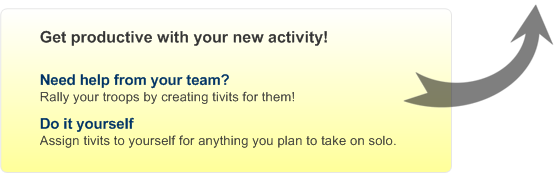
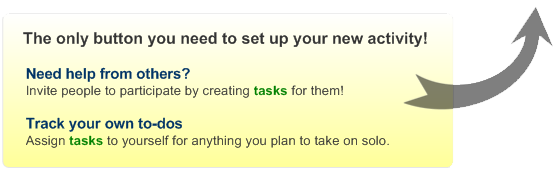
5-3-12 yaniv batch 2 s 1

diff --git a/public/javascripts/base-jq.js b/public/javascripts/base-jq.js
@@ -245,7 +245,7 @@ jQuery(document).ready(function($){
 	    			break;
 	    		case 're-assign':
 	    			console.log('[Yaniv] re-assign tivit selected.');
-	    			var confirmDialogTitle = 'Reassign tivit to someone else';
+	    			var confirmDialogTitle = 'Reassign task to someone else';
 	    			var actionPost = 'action="/reassign?id=' + tivitID + '&method=put" accept-charset="UTF-8">';
 					who = '<p><label for="who">Who:</label><input type="text" name="assign_to" id="assign_to" placeholder="- enter one email address -" class="required email" /></p>';    
 	    			break;
@@ -334,11 +334,20 @@ jQuery(document).ready(function($){
 						
 					// Find the new status we need to change the checkbox to, it's hidden in the HTML of the confirmation popup.
 					var statusobject = jQuery(form).parents('.popup'); 
-						
-					var newState = 'record ' + statusobject.find("input").attr("newstate");
+					
+					var newStateVal = statusobject.find("input").attr("newstate");
+					if (newStateVal == "complete")	
+					{
+						var newState = 'record ' + statusobject.find("input").attr("newstate") + ' tivit-name-line-through';
+					}
+					else
+					{
+						var newState = 'record ' + statusobject.find("input").attr("newstate");
+					}
 				    //console.log ("[Yaniv] new state=", newState);
 					record = jQuery(form).parents('.record');
 					// Change status on UI to the new selected state (need to use this for Ajax callback)
+					
 					record.attr('class', newState);
 						
 					// Show comment of status change
@@ -1043,7 +1052,7 @@ jQuery(document).ready(function($){
 		var actionPost = 'action="/remove_tivit?id=' + tivitID + '&method=post"' + ' accept-charset="UTF-8">';
 		
 		console.log ("[Yaniv] action=", actionPost);
-		var confirmDialogTitle = "Sure you want to delete this tivit?";
+		var confirmDialogTitle = "Sure you want to delete this task?";
 		
 		var confirmDialog =	'<div class="popup" id="confirmDialog">'	+
     								'<div class="loading-popup"></div>' + 

diff --git a/public/stylesheets/tiviti-styles.css b/public/stylesheets/tiviti-styles.css
@@ -329,16 +329,16 @@ ul, li{margin:0; border:0; padding:0; list-style:none;}
 /* New Activity Bar / Input*****************************************/
 #newactivityFTE {
     /*background: url('/images/tivity.jpg') no-repeat scroll center center transparent;*/
-    background: url('/images/newactivityFTE.jpg') no-repeat scroll center center transparent; 
+    background: url('/images/newactivityFTE.png') no-repeat scroll center center transparent; 
     display: inline-block;
     height: 78px;
     width: 285px;
-    top: 8px;
-    left: 494px;
+    top: -27px;
+    left: 525px;
     right: 10px;
     bottom: 10px;
     /*overflow: hidden;*/
-    z-index: 20;
+    z-index: 110;
     position: absolute;
 }
 #dashboardFTE {
@@ -735,6 +735,8 @@ ul, li{margin:0; border:0; padding:0; list-style:none;}
     color: black;
     text-decoration:none;
 }
+.tvit-list .tivit-name-line-through h3{ text-decoration:line-through;}
+
 .tvit-list .record-hovered{
 	background: #ccecff;
 }
@@ -1068,6 +1070,7 @@ a img{border:none;}
 
 /* This line controls the tivit titles style on both dashboard AND ADP */
 .activities h3,.tvit-list .record .text h3{margin:6px 0 0;font-size:15px;color:#000;font-weight:normal;}
+.activities .tivit-name-line-through h3{ text-decoration:line-through;}
 
 .activities small{color:#8d8d8d;font-size:12px;}
 .activities a{color:#7b7bd2;}
@@ -1229,7 +1232,7 @@ a img{border:none;}
 	color: #969696;
 	font-size:18px;padding-left:7px;
 	font-weight: bold;
-	padding: 0px 13px 2px 0px;
+	padding: 0px 18px 2px 0px;
 }
 .tivits .past .week{
 	color: #969696;

diff --git a/config/environments/production.rb b/config/environments/production.rb
@@ -52,12 +52,12 @@ FirstApp::Application.configure do
   #config.port	   = nil 
   
 
- #config.action_mailer.default_url_options = { :host => 'tiviti-staging.heroku.com' }
- #config.action_mailer.asset_host          = "tiviti-staging.heroku.com"
+ config.action_mailer.default_url_options = { :host => 'tiviti-staging.heroku.com' }
+ config.action_mailer.asset_host          = "tiviti-staging.heroku.com"
     
     
- config.action_mailer.default_url_options = { :host => 'tiviti-s2.heroku.com' }
- config.action_mailer.asset_host          =            "tiviti-s2.heroku.com"
+ #config.action_mailer.default_url_options = { :host => 'tiviti-s2.heroku.com' }
+ #config.action_mailer.asset_host          =            "tiviti-s2.heroku.com"
 #
 
  #config.action_mailer.default_url_options = { :host => 'tiviti.heroku.com' }

diff --git a/app/controllers/pages_controller.rb b/app/controllers/pages_controller.rb
@@ -69,10 +69,10 @@ def home
         end
   # Filter only product On Deck (for now)
       #@completed_activities          = get_activities_completed_or_with_completed_tivits(current_user_id)
-    #  @incoming_activities           = get_activities_with_new_tivit_requests(current_user_id)
+      @incoming_activities           = get_activities_with_new_tivit_requests(current_user_id)
       
       @completed_activities       = []
-      @incoming_activities        = []
+    #  @incoming_activities        = []
    
       
       account_session[:filter_id] = @filter_id
